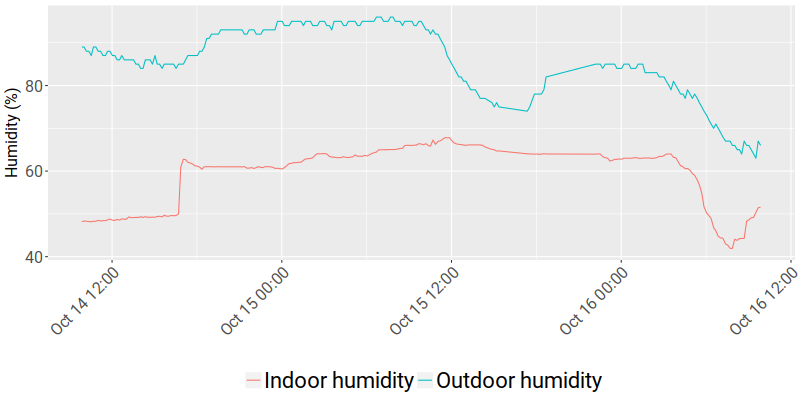
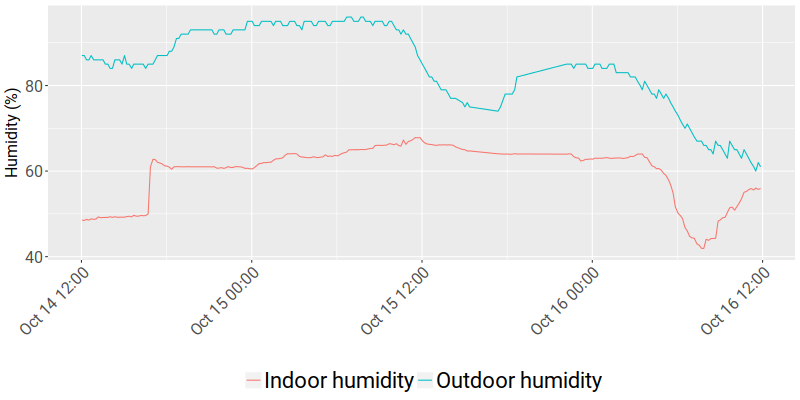
Update live temperature on site

diff --git a/temperature.js b/temperature.js
@@ -1,1 +1,1 @@
-document.write("<h4>Inside Temperature: 22.12°C</h4><h4>Outside Temperature: 14.73°C</h4><h4>Fermenter 1 Temperature: 22.06°C</h4><h4>Fermenter 2 Temperature: 21.94°C</h4><h4>Inside Humidity: 51.59%</h4><h4>Outside Humidity: 66.0%</h4><br>Last update: 2017-10-16 09:51:02");
+document.write("<h4>Inside Temperature: 22.31°C</h4><h4>Outside Temperature: 14.17°C</h4><h4>Fermenter 1 Temperature: 22.25°C</h4><h4>Fermenter 2 Temperature: 22.13°C</h4><h4>Inside Humidity: 55.94%</h4><h4>Outside Humidity: 61.0%</h4><br>Last update: 2017-10-16 11:51:28");
